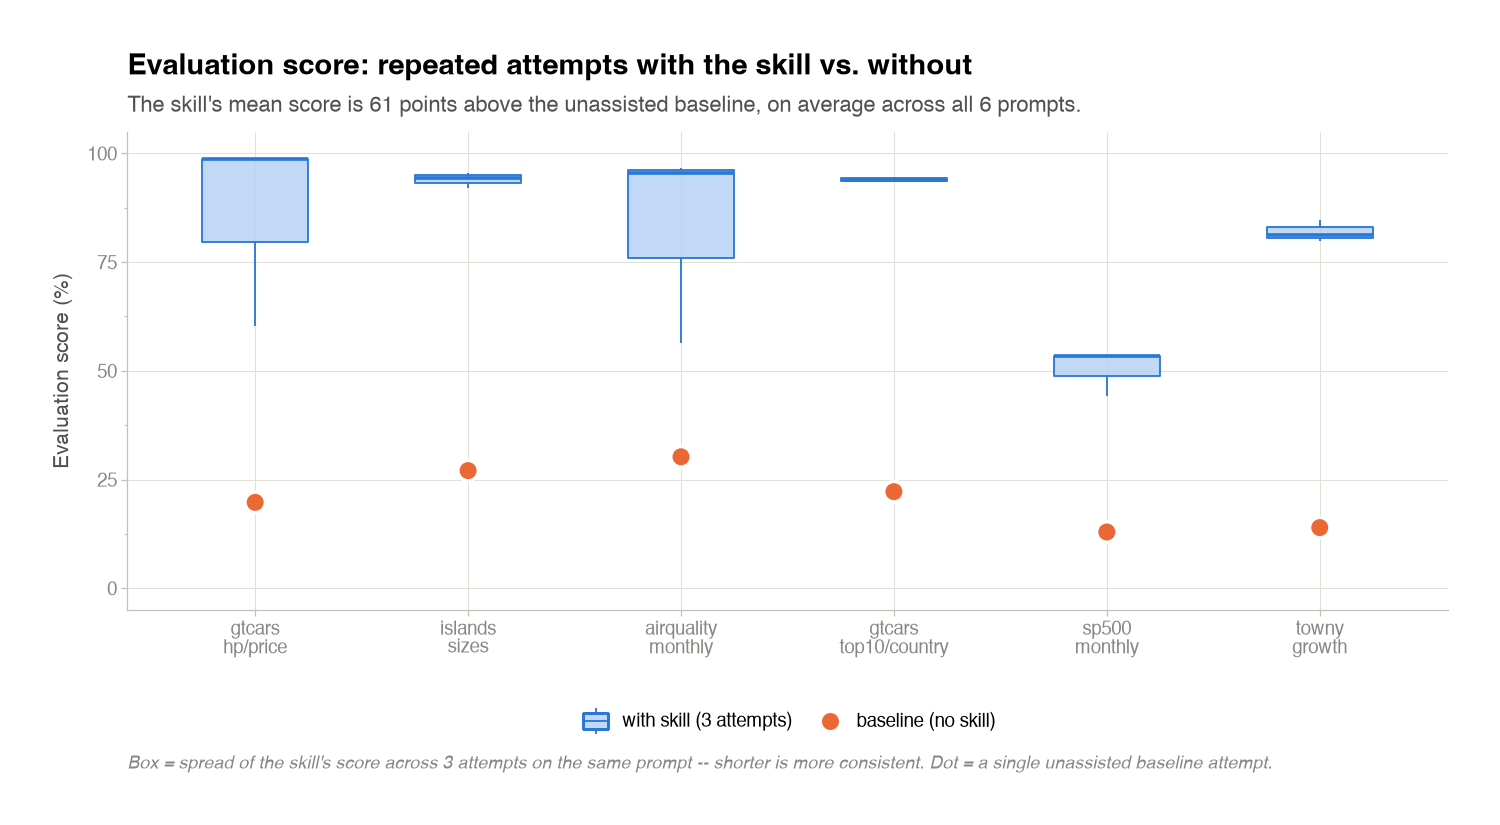
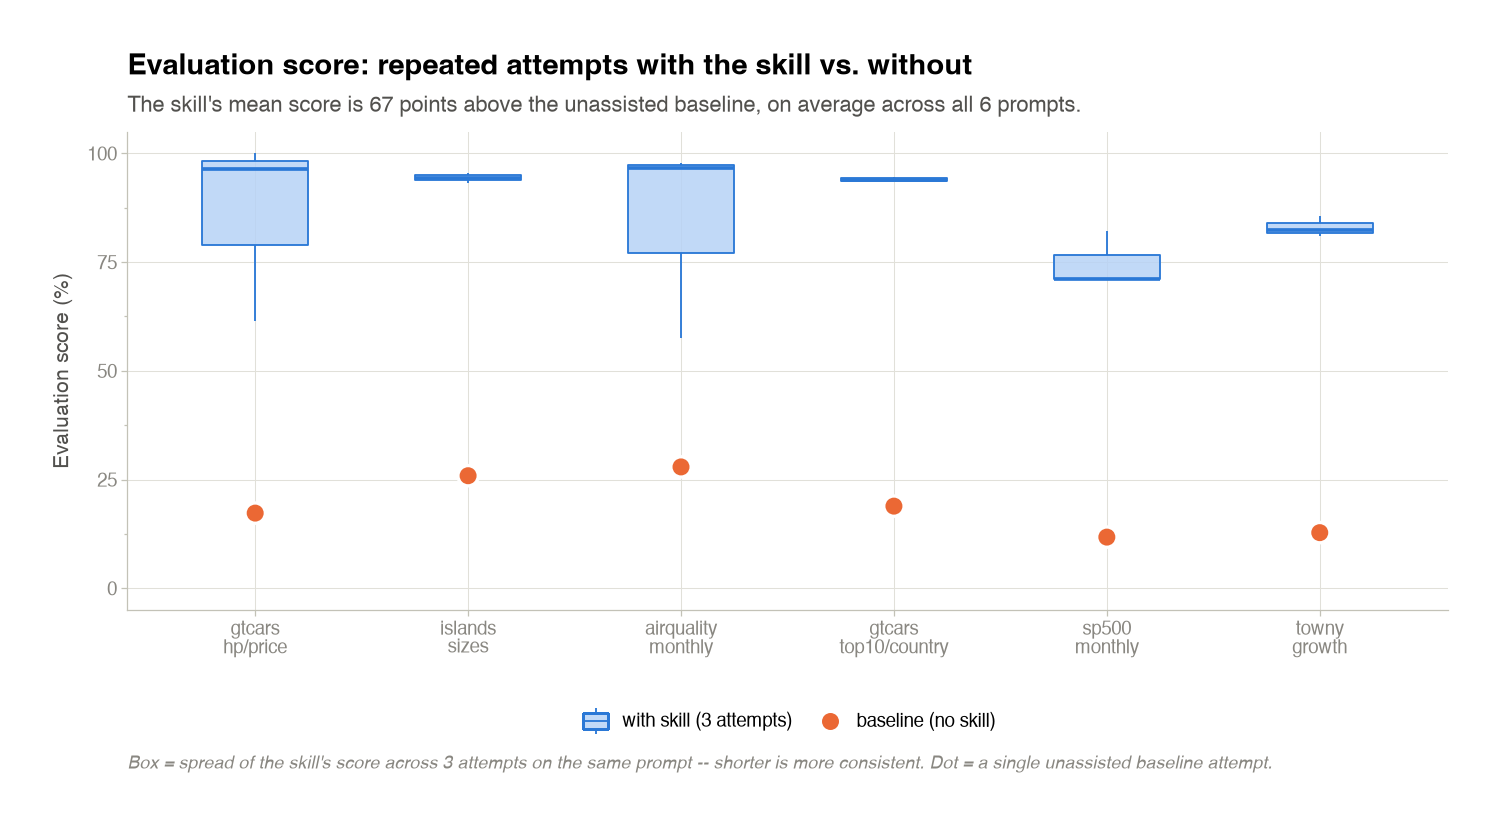
docs(eval-results): fix 4 review findings in SUMMARY.md docs layer
Addresses a review of PR #119 that found the recomputed scores themselves
are correct, but the SUMMARY.md documentation layer had 4 problems:

1. Regenerated the 6 comparator_score.png/usage.png plots for
   house/prose/scripts directly from each skill's already-recomputed
   metrics.json on disk (no re-scoring, no judge/API calls, no fresh
   sweep) so they no longer disagree with the corrected metrics.json --
   and now also no longer conflict with PR #118 (merged into main), which
   had regenerated the same PNGs from the OLD pre-recompute metrics.json.
   usage.png came out byte-identical for all 3 skills since token/cost
   data was untouched by this recompute; comparator_score.png changed for
   all 3, matching the corrected scores. Documented this in the top-level
   SUMMARY.md's plot-currency sentence.
2. Updated 3 stale per-invocation figures in narrative text (house
   towny_growth_trends/repeat_1, scripts gtcars_hp_price/repeat_3 and
   airquality_monthly_summary/repeat_1) to the recomputed values.
3. Fixed prose's mean repeat spread rounding (8.2pp -> 8.1pp, the correct
   per-prompt max-min average is 8.1462pp) in both the top-level table and
   prose/SUMMARY.md's own table + RESOLVED paragraph.
4. Clarified that house's previously-reported pre-recompute spread of
   10.8pp was itself already wrong before this PR (independently
   verified: recomputing the same pre-fix candidates gives 16.0pp) -- the
[…]

diff --git a/eval-results/SUMMARY.md b/eval-results/SUMMARY.md
@@ -562,16 +562,21 @@ guard target no longer being wrongly inlined. `creator` not re-swept
 | Skill | Mean score | Mean spread (was, round 3) | Max spread (was) | Mean cost |
 |---|---|---|---|---|
 | `house` | 83.3% | 16.4pp (18.1pp) | 51.7pp | **$0.131** (cheapest) |
-| `prose` | 84.7% | 8.2pp (23.5pp) | 28.9pp | $0.190 |
+| `prose` | 84.7% | 8.1pp (23.5pp) | 28.9pp | $0.190 |
 | `scripts` | 86.0% | 16.4pp (20.2pp) | 40.3pp | $0.189 |
 
 (Mean-score and mean-spread columns updated 2026-08-13 in
 `chore/recompute-eval-results-post-fixes` — see "RESOLVED" below. Original
 round-4 figures, before the `normalize_id` date-matching and
 `check_caption_not_generic` fixes were recomputed into these files, were
-`house` 82.4% / 10.8pp, `prose` 81.7% / 10.3pp, `scripts` 81.5% / 16.2pp.
-Max-spread figures are essentially unchanged, since they're driven by the
-same outlier repeats as before.)
+`house` 82.4% / 16.0pp, `prose` 81.7% / 10.3pp, `scripts` 81.5% / 16.2pp.
+(A previously-committed `house` spread figure of 10.8pp was itself already
+incorrect — an independent, pre-existing documentation error that predates
+this recompute and is unrelated to the `normalize_id`/caption-check fixes;
+recomputing the same pre-fix candidates gives 16.0pp, not 10.8pp. The real,
+recompute-attributable change for `house` is therefore 16.0pp → 16.4pp, not
+10.8pp → 16.4pp.) Max-spread figures are essentially unchanged, since
+they're driven by the same outlier repeats as before.)
 
 All three land in a tight band, similar to round 3's own "tight band"
 finding. Several single-prompt spreads are WIDER than the mid-fix-cycle
@@ -770,7 +775,12 @@ not a full harness re-run) — directionally reliable but not yet reflected
 in the actual `eval-results/**` files. That gap is now closed (see
 "RESOLVED" above): the actual `eval-results/**` files (per-skill
 `metrics.json`/`SUMMARY.md`/plots) reflect the POST-#116
-`check_caption_not_generic` scores as of 2026-08-13's full regenerate.
+`check_caption_not_generic` scores as of 2026-08-13's full regenerate. (The
+2 plots per skill -- `comparator_score.png` and `usage.png` -- were
+regenerated in a same-day follow-up commit directly from each skill's
+already-recomputed `metrics.json` on disk, not by re-running the
+sweep-based `make_plots.py`/`_lib.dump_metrics` path, so producing them
+made no new judge/API calls and did not risk picking up a different sweep.)
 
 ### Round-4 follow-up (2026-08-13): fixed a recurring "prefix veto instead of strip-and-grade" bug shape
 

diff --git a/eval-results/scripts/SUMMARY.md b/eval-results/scripts/SUMMARY.md
@@ -163,12 +163,13 @@ Per-prompt means: `gtcars_top10_by_country` 94.0%, `islands_sizes` 94.4%,
 as wide a margin now that the `normalize_id` fix has landed — see "RESOLVED" above).
 
 Two individual repeats scored far below their siblings, each from a stub-related
-mistake: `gtcars_hp_price/repeat_3` (60.2% vs. 98.8% siblings) created a stub using
+mistake: `gtcars_hp_price/repeat_3` (61.4% vs. 96.5%/100.0% siblings, which have
+since diverged from each other too) created a stub using
 `rowname_col="mfr"`, but `mfr` alone is non-unique in gtcars (multiple cars share
 the same manufacturer), so the stub rows didn't match the ground truth's composite
-`mfr`+`model` identifiers. `airquality_monthly_summary/repeat_1` (56.3% vs. ~96%
-siblings, which also added an unwanted column-group spanner the prompt never asked
-for) forgot `rowname_col=` in the `GT(...)` constructor entirely, so no stub was
-created. Both are places `gt_consistency.py`'s own worked pattern is unambiguous and
-the sibling repeats on the same prompt got it right — haiku-tier sampling variance,
-not a skill or checker gap.
+`mfr`+`model` identifiers. `airquality_monthly_summary/repeat_1` (57.5% vs.
+97.8%/96.7% siblings, which also added an unwanted column-group spanner the prompt
+never asked for) forgot `rowname_col=` in the `GT(...)` constructor entirely, so no
+stub was created. Both are places `gt_consistency.py`'s own worked pattern is
+unambiguous and the sibling repeats on the same prompt got it right — haiku-tier
+sampling variance, not a skill or checker gap.

diff --git a/eval-results/house/SUMMARY.md b/eval-results/house/SUMMARY.md
@@ -184,7 +184,7 @@ Per-prompt means: `gtcars_hp_price` 95.3%, `islands_sizes` 94.0%, `gtcars_top10_
 89.3%, `sp500_monthly_performance` 75.8%, `airquality_monthly_summary` 72.8%,
 `towny_growth_trends` 72.5%. Two individual repeats scored far below their siblings
 this round, both traced to the same one-off mistake, not a bug: `towny_growth_trends/
-repeat_1` (38.4% vs. 85–90% siblings) used `.set_index('Town')` instead of passing
+repeat_1` (39.5% vs. 86–91% siblings) used `.set_index('Town')` instead of passing
 `rowname_col="Town"` to `GT(...)`, so no stub was ever created; `sp500_monthly_
 performance` also runs into the known month-label-format ambiguity (see top-level
 `SUMMARY.md`). Both are places `RULES.md`/the worked example already teach the correct

diff --git a/eval-results/prose/SUMMARY.md b/eval-results/prose/SUMMARY.md
@@ -132,11 +132,11 @@ most expensive" table and filled 100% of rows, violating that file's own cap);
 | Metric | This round | Round 3 |
 |---|---|---|
 | Mean score | **84.7%** | 79.0% |
-| Mean repeat spread | 8.2pp | 23.5pp |
+| Mean repeat spread | 8.1pp | 23.5pp |
 | Mean cost | $0.190 | $0.182 |
 
 **RESOLVED (2026-08-13, `chore/recompute-eval-results-post-fixes`):** the
-figures above (84.7% / 8.2pp) are the final, fully-recomputed numbers,
+figures above (84.7% / 8.1pp) are the final, fully-recomputed numbers,
 after the deferred `normalize_id` date-matching fix and the
 `check_caption_not_generic` redesign were both applied to this round's
 actual committed candidates. They supersede an earlier, briefly-committed
